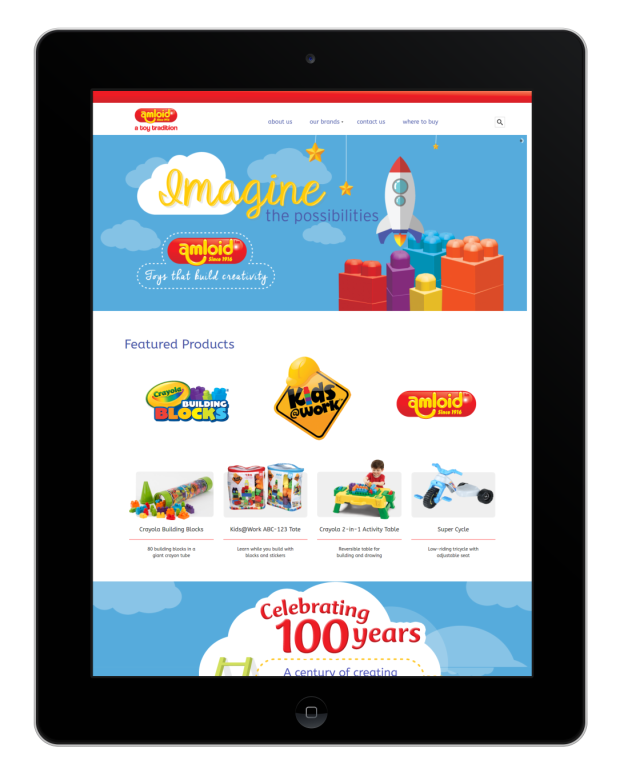
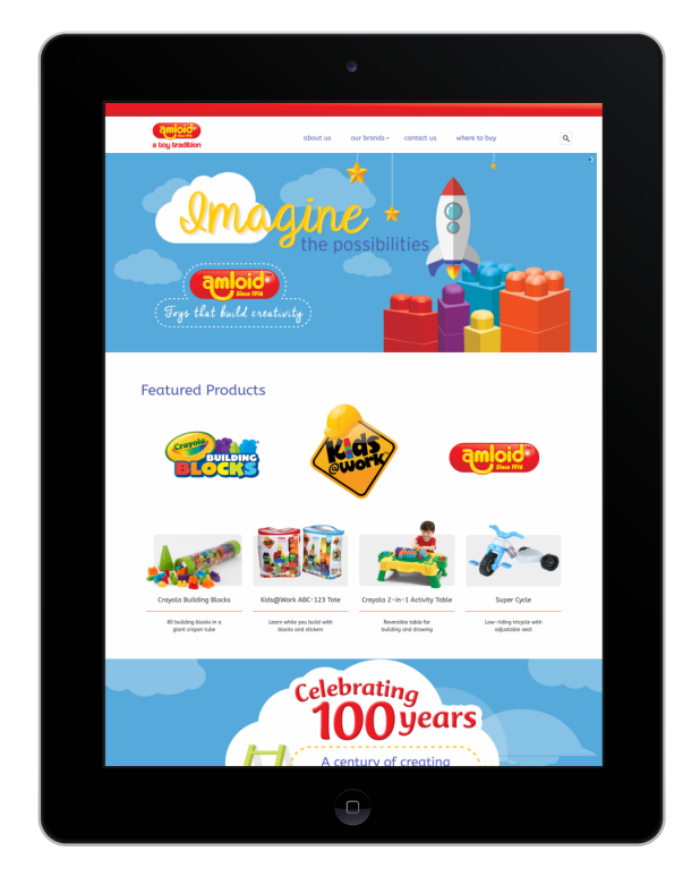
-solved nav bg firing issue; 3/4 created img asssets

diff --git a/client/components/nav/nav.jsx b/client/components/nav/nav.jsx
@@ -3,10 +3,10 @@ import { mount } from 'react-mounter';
 
 Nav = React.createClass({
   menu:[
-    {_id:'0',name:'Home', background:'images/nav/fevermac.png', animate:'', color:'' },
-    {_id:'1',name:'Amloid Toys', background:'images/nav/amloidipad.png', animate:'', color:'' },
-    {_id:'2',name:'Feverall', background:'', animate:'', color:'' },
-    {_id:'3',name:'Nice n Clean', background:'', animate:'', color:'' },
+    {_id:'0',name:'Home', background:'', animate:'', color:'' },
+    {_id:'1',name:'Amloid Toys', background:'images/nav/bothamloid.png', animate:'', color:'' },
+    {_id:'2',name:'Feverall', background:'images/nav/feverthree.png', animate:'', color:'' },
+    {_id:'3',name:'Nice n Clean', background:'images/nav/nicencleanboth.png', animate:'', color:'' },
     {_id:'4',name:'Wine 4 Food', background:'', animate:'', color:'' },
   ],
   componentDidMount(){
@@ -32,9 +32,9 @@ Nav = React.createClass({
 
         <li className="navlist-item" key={item._id}>
           <a href="#" className="white-text nav-link alwaysTop">{item.name}
-            <img src={item.background} className="nav-bg hide-nav-bg animated" alt="feverall" />
+            <img src={item.background} className="nav-bg hide-nav-bg animated center-img" alt={item.name} />
           </a>
-          </li>
+        </li>
       )
     })
     return (
@@ -45,7 +45,7 @@ Nav = React.createClass({
           <div className="bar bar-bot"></div>
         </btn>
         <div id="nav-wrapper" className="container-fluid no-padding animated slideOutUp">
-          <ul className="navlist vcenter">
+          <ul className="navlist vcenter col-xs-12">
             {links}
           </ul>
         </div>

diff --git a/client/styles/base/_animation.scss b/client/styles/base/_animation.scss
@@ -5,12 +5,19 @@
   -webkit-transform: perspective(1px) translateZ(0);
   transform: perspective(1px) translateZ(0);
   box-shadow: 0 0 1px transparent;
-  -webkit-transition-duration: 0.3s;
-  transition-duration: 0.3s;
+  -webkit-transition-duration: 0.5s;
+  transition-duration: 0.5s;
   -webkit-transition-property: transform;
   transition-property: transform;
 }
-.hvr-shrink:hover, .hvr-shrink:focus, .hvr-shrink:active {
-  -webkit-transform: scale(0.9);
-  transform: scale(0.9);
+.hvr-shrink, .hvr-shrink, .hvr-shrink {
+  -webkit-transform: scale(0.8);
+  transform: scale(0.8);
+}
+
+.shrink{
+-webkit-transform:scale(0.5);
+-moz-transform:scale(0.5);
+-ms-transform:scale(0.5);
+transform:scale(0.5);
 }

diff --git a/client/styles/base/_variables.scss b/client/styles/base/_variables.scss
@@ -1,21 +1,31 @@
 /*Base Site Vaiables*/
-
 /*Colors*/
 .white-text {
-  color: white !important;
-  text-decoration: none !important;
+    color: white !important;
+    text-decoration: none !important;
 }
-
-
 /*Margin and Padding*/
 .no-padding {
-  padding: 0 !important;
+    padding: 0 !important;
 }
+
 .vcenter {
-  position: relative;;
-  top: 14%;
+    position: relative;
+    top: 14%;
 }
 
 .alwaysTop {
-  z-index: 9999;
+    z-index: 9999;
+}
+
+.center-img {
+    position: absolute;
+    top: 50%;
+    left: 50%;
+    width: 800px;
+    height: 500px;
+    margin-top: -250px;
+    /* Half the height */
+    margin-left: -400px;
+    /* Half the width */
 }

diff --git a/client/styles/components/_nav.scss b/client/styles/components/_nav.scss
@@ -73,11 +73,14 @@
 **********************/
 .nav-bg {
   position: fixed;
-  display: block;
+  display: inline-block;
   margin: 0 auto;
-  left: 15%;
-  opacity: .3;
+  left: 30%;
+  top: 10%;
+  opacity: .3 !important;
   z-index: -1;
+  height: 600px;
+  float: right;
 }
 
 .hide-nav-bg {
